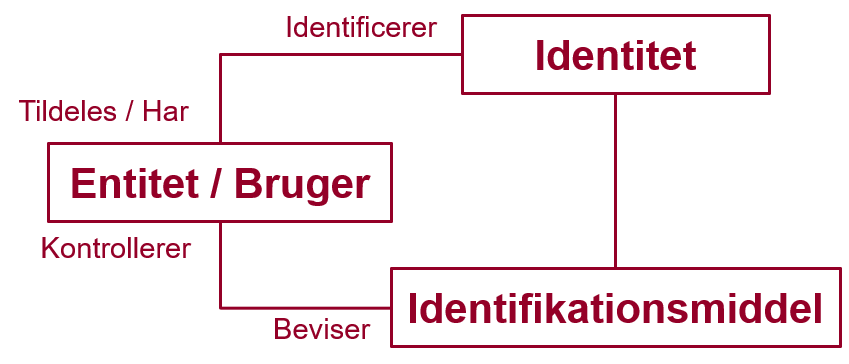
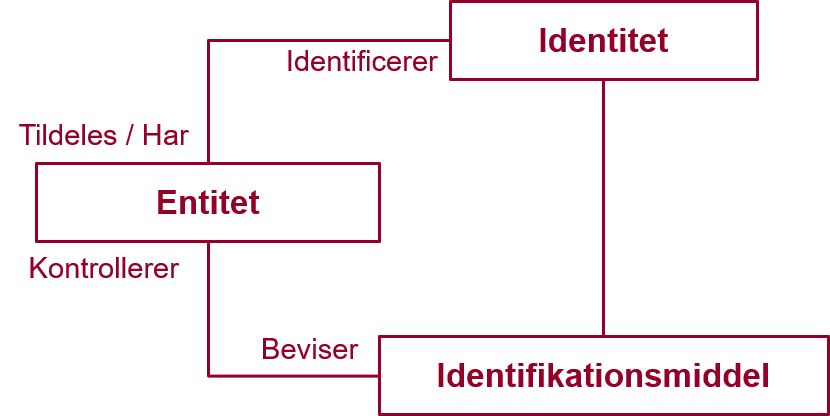
Begreber

Changed region(s): [[0.0, 0.0, 1.0, 1.0]]

diff --git a/index.md b/index.md
@@ -108,59 +108,56 @@ Med udspring i Digitaliseringspagten [5] er der parallelt med opdateringen af de
 ## Centrale begreber
 Referencearkitekturen beskriver administrationen og kontrollen med brugeres adgang til digitale tjenester. Tjenester udbydes af private og offentlige virksomheder, og anvendes af borgere eller andre virksomheder og deres ansatte.
 
-De primære kapabiliteter i brugerstyring er
 
--	Administrationen af brugere, med registrering, sikring af identiteter og tilknytning af rettigheder.
--	Sikring af adgang, med autentifikation og håndtering af attributter om brugeren.
 
 <figure>
 <img src="Brugerstyring overblik.png" width="90%"/>
 <figcaption>Kapabiliteter omkring brugerstyring</figcaption>
 </figure>
 
-Forretningstjeneste en primært eksternt synlig funktionalitet, men kan også være til internt brug. Hos offentlige myndigheder vil det typisk være en digital selvbetjening, som anvendes af borgere eller virksomheders ansatte, men termen dækker også over digitale tjenester der anvendes af it-systemer hos andre organisationer.
+De primære kapabiliteter i brugerstyring er
 
-En tjenesteudbyder sikrer adgangen til forretningstjenesten, så brugerne får den korrekte adgang til at anvende tjenesten i henhold til tjenestens adgangspolitik. Adgangspolitikken kan være underlagt krav i lovgivning, fx hvis tjenesten giver adgang til personoplysninger.
+-	*Brugeradministration* aspekt af brugerstyring hvor digitale identiter, deres tilknytning til entiter og tilknytning af rettigheder administreres.
+-	*Adgangskontrol* proces, der afgør hvilke funktioner og data en bruger får adgang til på baggrund af brugerens identitet, attributter, roller/rettigheder og tjenestens adgangspolitik.
+- *Forretningstjenste*, tjeneste der understøtter forretningskabapbiliteter gennem en eksplicit defineret snitflade og som er eksplicit styret af en organisation.
 
-Ved siden af forretningstjenester findes tillidstjenester, som kan implementere større eller mindre dele af brugerstyringsfunktionaliteten. I denne referencearkitektur beskrives hvordan forskellige tillidstjenester og forretningstjenester samarbejder, typisk i sammenslutninger i form af føderationer.
+Ved siden af forretningstjenester findes *tillidstjenester*, som kan implementere større eller mindre dele af brugerstyringsfunktionaliteten. I denne referencearkitektur beskrives hvordan forskellige *tillidstjenester* og *forretningstjenester* samarbejder, typisk i sammenslutninger i form af føderationer.
 
-<dfn>Tillidstjeneste</dfn> en betroet tjeneste som udbydes særskilt, og anvendes af bruger og forretningstjenesteudbyder i fællesskab, styret af aftaler om tillidspolitikker.
+*Tillidstjeneste* tjeneste der udfører betroede funktioner der understøtter brugerstyring i forretningstjenester.
 
-<dfn>Føderationer</dfn> sammenslutning af tjenester med gensidig tillid samt fælles standarder og kontrol.
+*Føderationer* sammenslutning af tjenester med gensidig tillid samt fælles standarder og kontrol.
 
 ### Brugere og identiteter
 I en digital sammenhæng defineres brugere som dels den entitet de virkelig er og dels den tildelte identitet, de har fået som adgang til digitale tjenester.
 
 <figure>
 <img src="Bermuda.png" width="65%"/>
-<figcaption>Sammenhængende tjenester</figcaption>
+<figcaption>Entitet, identitet og identifikationsmiddel</figcaption>
 </figure>
 
-Entitet, person eller enhed som ønsker adgang til en tjeneste. I denne referencearkitektur er kun entiteter der optræder som brugere relevante. I det efterfølgende bruges derfor begrebet bruger om entiteter i rollen som brugere af en tjeneste.
+*Entitet*,  , person, organisation, apaprat eller applikation, som ønsker adgang til en tjeneste. I denne referencearkitektur er kun entiteter der optræder som brugere relevante. I det efterfølgende bruges derfor begrebet *bruger* om entiteter i rollen som brugere af en tjeneste.
 
-Bruger Person, organisation, apparat eller applikation som ønsker adgang til en tjeneste. En bruger kan have flere identiteter – for eksempel kan en fysisk person både have en privatidentitet og flere erhvervsidentiteter. Enhver bruger der skal have adgang til tjenester skal optræde som bruger med sin egen (unikke) identitet.
+*Identitet* digital persona der repræsenterer en entitet i rollen som bruger v.hj.a. et sæt attributter. En identitet kan være stærkere eller svagere bundet til entiteten afhængigt af den proces, hvor identiteten udstedes -identitetssikring. En pseudonym identitet har fx ingen synlig binding til den entitet, som identiteten er udstedt til.
 
-Identitet Bruger repræsenteret ved et sæt af attributter der identificerer identiteten entydigt. En identitet kan være stærkere eller svagere bundet til entiteten afhængigt af den proces, hvor identiteten udstedes -identitetssikring. En pseudonym identitet har fx ingen synlig binding til den entitet, som identiteten er udstedt til.
-
-Identifikationsmiddel som en bruger får udstedt eller registreret til brug for autentifikation af en identitet. Midlet vil typisk basere sig på faktorer, som er svære at efterligne, fx viden som kun brugeren har - kodeord, noget kun brugeren er – biometri, eller noget kun brugeren er i besiddelse af - enhed.
+*Identifikationsmiddel* middel som en en entitet får udstedt til brug for autentifikation og som benytter en eller flere autentifikationsfaktorer. Midlet vil typisk basere sig på faktorer, som er svære at efterligne, fx viden som kun brugeren har - kodeord, noget kun brugeren er – biometri, eller noget kun brugeren er i besiddelse af - enhed.
 
 Det er vigtigt at være opmærksom på dynamikken og fleksibiliteten i ovenstående model. Eksempelvis kan en fysisk person have mange forskellige identiteter og mange forskellige identifikationsmidler. Et bestemt identifikationsmiddel er ikke nødvendigvis koblet til en bestemt identitet og omvendt.
 
 ### Typer af brugere
-I forbindelse med brugerstyring kan brugere være enten et subjekt, med rettigheder og pligter, eller et objekt, der kun kan arve rettigheder fra et subjekt.
+I forbindelse med brugerstyring kan brugere være enten med rettigheder og pligter, eller brugere der kun kan arve rettigheder fra en anden bruger.
 
 <figure>
-<img src="Brugertyper.png" width="65%"/>
+<img src="Brugertyper.png" width="80%"/>
 <figcaption>Brugertyper</figcaption>
 </figure>
 
-Person Fysisk person der kan have identiteter som borger, medarbejder eller deltage i fællesskaber, som for eksempel Facebook.
+*Person* Fysisk person der kan have identiteter som borger, medarbejder eller deltage i fællesskaber, som for eksempel Facebook.
 
-Organisation med adgange og rettigheder der kan delegeres til medarbejder eller applikation.
+*Organisation* med adgange og rettigheder der kan delegeres til medarbejder eller applikation.
 
-Apparat Fysiske enhed med indbygget program der kan optræde som bruger eller tjeneste. Her er programmet underlagt apparatet og kan, i modsætning til en applikation, ikke optræde selvstændigt.
+*Apparat* fysisk redskab med indlejret software, der kan udføre specifikke funktioner og kan optræde som bruger eller tjeneste. Her er programmet underlagt apparatet og kan, i modsætning til en applikation, ikke optræde selvstændigt.
 
-Applikation Et selvstændigt program der kan afvikles på en platform. Til forskel fra programmet i et apparat, er en applikation ikke bundet til den platform det kører på. En applikation kan optræde både som bruger og tjeneste og skal have sin egen identitet med tilhørende identifikationsmidler. En autonom softwarerobot vil være en applikation og skal derfor have egen identitet og aldrig låne en personbrugers identitet. Bemærk, at automatiseringer en bruger selv afvikler, efter at være logget ind på de nødvendige systemer, en brugerafviklet software robot, i brugerstyringssammenhæng ikke betragtes som en applikation.
+*Applikation* software med specifik forretningsfunktion, der kan afvikles på en platform. Til forskel fra programmet i et apparat, er en applikation ikke bundet til den platform det kører på. En applikation kan optræde både som bruger og tjeneste og skal have sin egen identitet med tilhørende identifikationsmidler. En autonom softwarerobot vil være en applikation og skal derfor have egen identitet og aldrig låne en personbrugers identitet. Bemærk, at automatiseringer en bruger selv afvikler, efter at være logget ind på de nødvendige systemer, en brugerafviklet software robot, i brugerstyringssammenhæng ikke betragtes som en applikation.
 
 ### Relationer imellem brugere
 Brugere kan have indbyrdes relationer af betydning for brugerstyring i forbindelse med tildeling og delegering af rettigheder. Rettigheder og hvordan de tildeles er ikke indeholdt i denne referencearkitektur, hvorfor nedenstående blot er eksempler på relationer af betydning for brugerstyring.
@@ -171,6 +168,8 @@ Brugere kan have indbyrdes relationer af betydning for brugerstyring i forbindel
 -	Bruger af et apparat. For eksempel brugeren af en mobiltelefon eller en blodtryksmåler. I begge tilfælde er det en mulighed, at apparatet som bruger arver rettigheder fra personen der bruger det.
 -	Delegering af rettigheder fra en person eller organisation til en applikation. For eksempel en automatiseringsrobot, der får delegeret rettigheder til at håndtere en givet sagsforløb.
 -	En applikation kan have særlige rettigheder på grund af enheden den afvikles på.
+
+
 
 
 ## Tilblivelse, styring og andre referencearkitekturer
